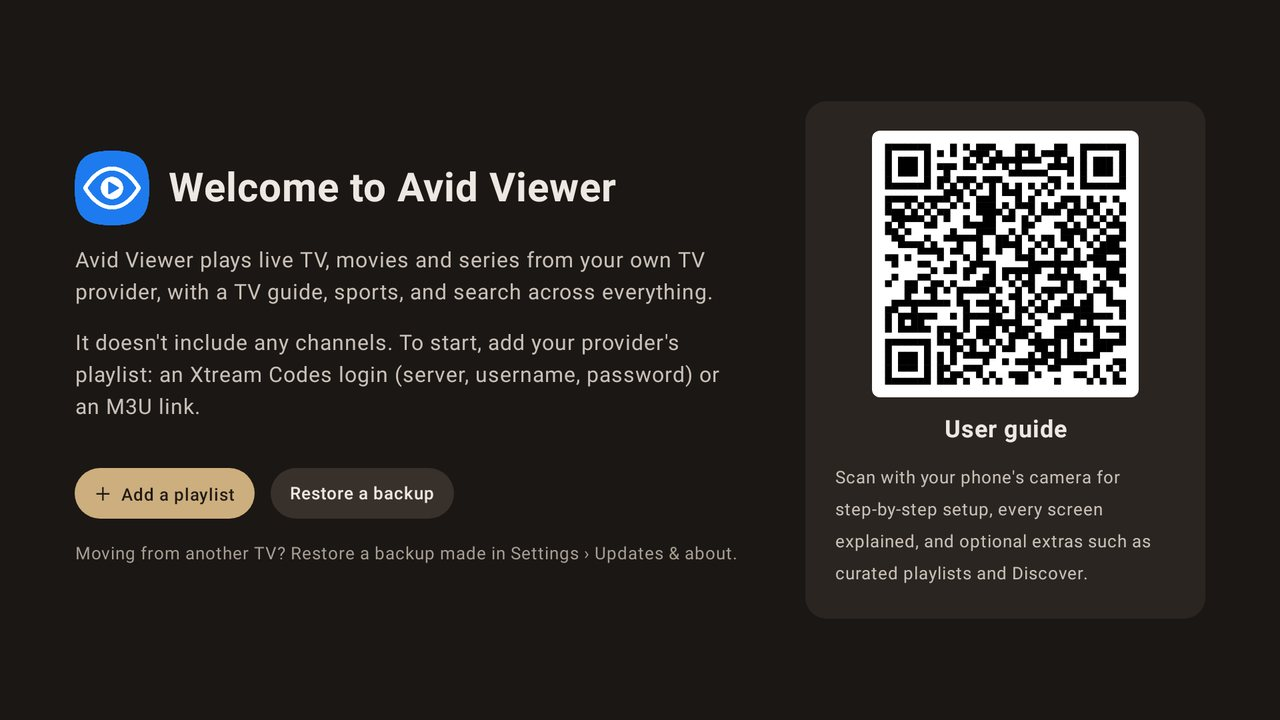
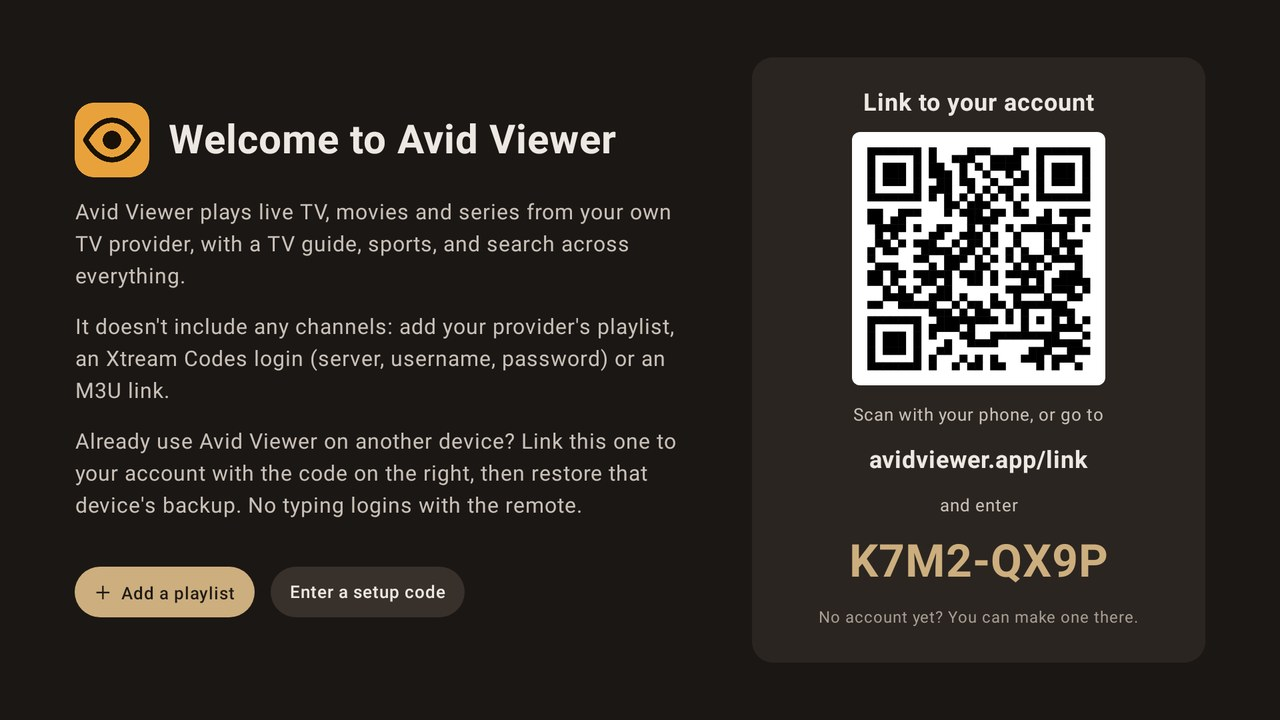
Docs: user guide for 1.13.0 (release notes, welcome screen and screenshot, linking)
Claude-Session: https://claude.ai/code/session_01SDaYjDiVFtdsxWGwhkQR2c

diff --git a/docs/USER_GUIDE.md b/docs/USER_GUIDE.md
@@ -28,10 +28,9 @@ This guide covers **Avid Viewer 1.13.0**, the current public release. Avid Viewe
 
 The first time you open Avid Viewer, and every time it starts while there are no playlists, it shows a welcome screen:
 
-- **Enter a setup code** (highlighted, from 1.11.0): the easiest way to start. See [Set up with your phone](#set-up-with-your-phone) below.
-- **＋ Add a playlist**: opens **Settings › Playlists** on the add form, to type it with the remote. See below.
-- **Sign in to your account** (from 1.12.0): links this device to your avidviewer.app account, then offers the backups in your account, for moving from another device. See [Backup & restore](#backup--restore).
-- **avidviewer.app/setup**: scan the QR code with your phone's camera to open the setup page.
+- **＋ Add a playlist** (highlighted): opens **Settings › Playlists** on the add form, to type it with the remote. See below.
+- **Enter a setup code**: playlists entered on your phone at avidviewer.app/setup. See [Set up with your phone](#set-up-with-your-phone) below.
+- **Link to your account** (right side, from 1.13.0): the device shows its own 8-character code and a QR code. Scan the QR code with your phone (it opens **avidviewer.app/link** with the code filled in), or go to avidviewer.app/link and type the code. Sign in or make an account, then choose **Add this device**. A new code replaces one that runs out (10 minutes). Once it's added, the device offers the backups in your account, for moving from another device; see [Backup & restore](#backup--restore). After linking, the panel says **Linked to** your email with **Restore a backup**.
 
 Once a playlist has been added, the app opens on the TV Guide instead.
 
@@ -485,7 +484,7 @@ Everything here stays on the device; nothing is uploaded or backed up to the clo
 From 1.11.0 a device can be linked to an Avid Viewer account at avidviewer.app. From 1.12.0 that's also where its backups are kept (see below).
 
 - **Making an account:** at **avidviewer.app/signin**, enter your email for a one-time sign-in link, or use a passkey you've added. There are no passwords. Your account page (**avidviewer.app/account**) lists your devices, their backups, passkeys and signed-in browsers, your watch-history choice, and **Delete account**.
-- **Link this device** (Settings › Account, or **Sign in to your account** on the welcome screen): the device shows an 8-character code and a QR code. On your phone or computer, open **avidviewer.app/link** (or scan the QR code, or choose **Add a device** on your Account page), sign in if asked, check the device it found, give it a name, and choose **Link this device**. The device notices within a few seconds and shows **Linked to** your email. The code works for 10 minutes; **Cancel** stops waiting.
+- **Link this device** (Settings › Account, or the code on the welcome screen): the device shows an 8-character code and a QR code. Scan the QR code with your phone (the code is filled in for you), or open **avidviewer.app/link** (**Add a device** on your Account page) and type the code. Sign in if asked, check the device it found, give it a name, and choose **Add this device**. The device notices within a few seconds and shows **Linked to** your email. The code works for 10 minutes; **Cancel** stops waiting.
 - **Linked:** Settings › Account shows the account and this device's name. **Sign out of this device** (asks first) unlinks it and forgets its backup PIN; playlists and settings on the device stay.
 - **Your devices** on avidviewer.app/account shows each linked device's name, model, app version and when it last checked in, with **Rename** and **Remove**. A removed device unlinks itself the next time it checks in (a minute after the app starts, then every 6 hours); its backup stays in your account for 30 days.
 - **What's shared:** linking sends only the device's name, model and Avid Viewer version. Your playlists and settings go to your account only in a backup, locked with your backup PIN. What you watch is never sent.
@@ -511,7 +510,7 @@ A backup holds your playlists (with their logins), ★ Favorites and your lists,
 2. Choose one. The confirmation shows which device it's from, when it was made and which playlists it holds. Restoring replaces the playlists and settings on this device and can't be undone.
 3. Enter that backup's PIN. A wrong PIN is refused and nothing changes. After a restore, channels and guides start downloading again, and this device backs up with the same PIN from then on (if it didn't have one).
 
-**Setting up a new device:** on its welcome screen choose **Sign in to your account**, approve the code at **avidviewer.app/link** (or **Add a device** on your Account page), then pick the backup to copy.
+**Setting up a new device:** its welcome screen shows a code and a QR code. Scan it (or type the code at **avidviewer.app/link**, **Add a device** on your Account page), choose **Add this device**, then pick the backup to copy on the device.
 
 **Forgot the PIN?** Sign in at **avidviewer.app/account**, find the backup under **Backups** and choose **Show PIN**. For your security it's shown only after a sign-in in the last hour, or a passkey sign-in.
 
@@ -719,10 +718,18 @@ Every public release since 1.0.35, newest first. From 1.1.0, versions are number
 
 ### 1.13.0 — November 16, 2026, 5:51 PM CT (current)
 
+**Release notes**
+
+- **Link with the code on the device.** The welcome screen now shows this device's own code and a QR code. Scan it with your phone and avidviewer.app/link opens with the code filled in, or type the code there (**Add a device** on your Account page). Choose **Add this device**, and the device offers your account's backups.
+- **No example codes.** The website's code box and the setup-code dialog no longer show a sample code that looked like a real one.
+- **New icon.** The app icon and the Fire TV / Android TV banner match avidviewer.app: a dark eye on amber.
+
 **Change log**
 
-- Welcome screen shows this device's link code and a QR code that fills it in on avidviewer.app/link; app icon and banner match the website
-- Setup code is to the right of Add a playlist
+- Welcome screen: link code and QR code on the right (a new code replaces an expired one; linking stops when you leave the screen); Add a playlist highlighted first, Enter a setup code beside it
+- Website: Add a device page (code formatted as you type, QR code fills it in and finds the device, one press to add); backups of removed devices cleaned up when backups are sent or listed (no scheduled job)
+- App icon, round icon, in-app logo and TV banner redrawn from the website's logo
+- Tests never contact avidviewer.app (a fake site everywhere)
 
 ### 1.12.0 — November 16, 2026, 8:32 AM CT
 
